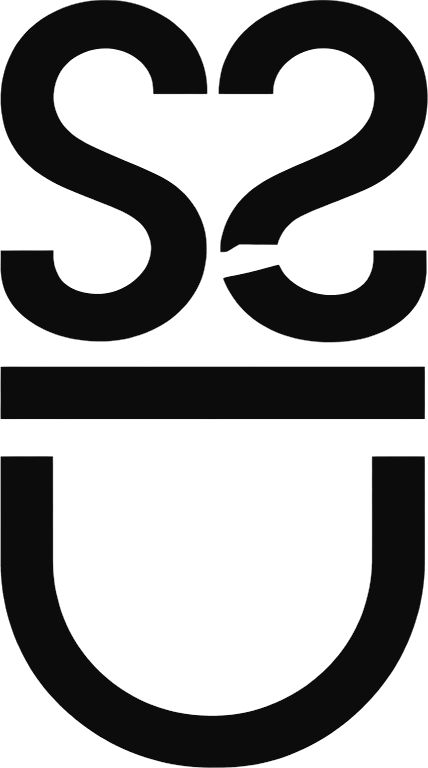
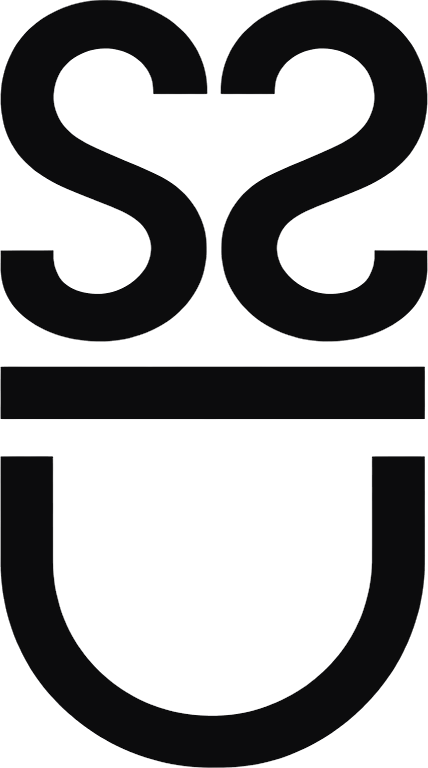
Home: goods turn continuously in 3D, tee symbol on left chest, day-to-night product backdrop; fix broken S in goods symbol

diff --git a/index.html b/index.html
@@ -555,10 +555,23 @@
   .prd-grid{display:grid; grid-template-columns:repeat(2,minmax(0,340px)); gap:20px; margin-top:44px;}
   @media (max-width:600px){.prd-grid{grid-template-columns:minmax(0,340px); justify-content:center;}}
   .prd{margin:0;}
-  .prd-stage{position:relative; aspect-ratio:376/600; border-radius:14px; overflow:hidden; background:#d6d3ce;}
-  .prd-v{position:absolute; inset:0; opacity:0; transition:opacity 0.8s ease;}
-  .prd-v.on{opacity:1;}
-  .prd-v > img:first-child{display:block; width:100%; height:100%; object-fit:cover;}
+  .prd-stage{position:relative; aspect-ratio:376/600; border-radius:14px; overflow:hidden; background:#d8d6d2; perspective:900px;}
+  .prd-v{position:absolute; inset:0; opacity:0; transition:opacity 1.2s ease-in-out;}
+  .prd-t{position:absolute; inset:-8% -12%; transform:scale(1.02) rotateY(16deg);}
+  .prd-v.turn .prd-t{animation:prdTurn 3.6s linear forwards;}
+  @keyframes prdTurn{from{transform:scale(1.02) rotateY(16deg);} to{transform:scale(1.02) rotateY(-16deg);}}
+  @media (prefers-reduced-motion:reduce){.prd-v.turn .prd-t{animation:none;}}
+  .prd-v.on{opacity:1; z-index:2;}
+  .prd-v.prev{opacity:1; z-index:1; transition:none;}
+  /* 낮 → 노을 → 밤 → 새벽, 천천히 */
+  .prd-stage::after{content:''; position:absolute; inset:0; z-index:3; pointer-events:none; mix-blend-mode:multiply;
+    animation:prdDay 32s ease-in-out infinite;}
+  @keyframes prdDay{0%,100%{background:rgba(255,255,255,0);} 25%{background:rgba(255,178,120,0.38);}
+    50%{background:rgba(34,46,92,0.78);} 75%{background:rgba(214,170,190,0.34);}}
+  @media (prefers-reduced-motion:reduce){.prd-stage::after{animation:none;}}
+  .prd-i{position:absolute; left:9.68%; right:9.68%; top:6.9%; bottom:6.9%;}
+  .prd-i > img:first-child{display:block; width:100%; height:100%; object-fit:cover;}
+  .prd-t{background:#d8d6d2;}
   .prd-sym{position:absolute; mix-blend-mode:screen; opacity:0.88; filter:blur(0.25px);
     transform:translateX(-50%) scaleX(var(--sx,1)); transform-origin:50% 0;}
   .prd figcaption{display:flex; justify-content:space-between; gap:12px; margin-top:14px; font-size:12px; letter-spacing:0.12em;}
@@ -1445,19 +1458,19 @@
       <div class="prd-grid">
         <figure class="prd">
           <div class="prd-stage">
-            <div class="prd-v on"><img src="goods/assets/prd-tee-0.jpg" alt="S2:U 심볼 반팔 티셔츠 블랙 앞면" loading="lazy"><img class="prd-sym" src="goods/assets/symbol-bone.png" alt="" style="left:50%; top:25.8%; width:7.4%; --sx:1;"></div>
-            <div class="prd-v"><img src="goods/assets/prd-tee-1.jpg" alt="S2:U 심볼 반팔 티셔츠 블랙 오른쪽 측면" loading="lazy"><img class="prd-sym" src="goods/assets/symbol-bone.png" alt="" style="left:53.7%; top:25.8%; width:7.4%; --sx:0.72;"></div>
-            <div class="prd-v"><img src="goods/assets/prd-tee-2.jpg" alt="S2:U 심볼 반팔 티셔츠 블랙 뒷면" loading="lazy"><img class="prd-sym" src="goods/assets/symbol-bone.png" alt="" style="left:50%; top:26.7%; width:24.5%; --sx:1;"></div>
-            <div class="prd-v"><img src="goods/assets/prd-tee-3.jpg" alt="S2:U 심볼 반팔 티셔츠 블랙 왼쪽 측면" loading="lazy"><img class="prd-sym" src="goods/assets/symbol-bone.png" alt="" style="left:50.3%; top:25.8%; width:7.4%; --sx:0.8;"></div>
+            <div class="prd-v on"><div class="prd-t"><div class="prd-i"><img src="goods/assets/prd-tee-0.jpg" alt="S2:U 심볼 반팔 티셔츠 블랙 앞면" loading="lazy"><img class="prd-sym" src="goods/assets/symbol-bone.png" alt="" style="left:66%; top:29%; width:6.5%; --sx:1;"></div></div></div>
+            <div class="prd-v"><div class="prd-t"><div class="prd-i"><img src="goods/assets/prd-tee-1.jpg" alt="S2:U 심볼 반팔 티셔츠 블랙 오른쪽 측면" loading="lazy"><img class="prd-sym" src="goods/assets/symbol-bone.png" alt="" style="left:67%; top:29%; width:6.5%; --sx:0.7;"></div></div></div>
+            <div class="prd-v"><div class="prd-t"><div class="prd-i"><img src="goods/assets/prd-tee-2.jpg" alt="S2:U 반팔 티셔츠 블랙 뒷면" loading="lazy"></div></div></div>
+            <div class="prd-v"><div class="prd-t"><div class="prd-i"><img src="goods/assets/prd-tee-3.jpg" alt="S2:U 심볼 반팔 티셔츠 블랙 왼쪽 측면" loading="lazy"><img class="prd-sym" src="goods/assets/symbol-bone.png" alt="" style="left:62%; top:29%; width:6.5%; --sx:0.9;"></div></div></div>
           </div>
           <figcaption><span>S2:U SYMBOL TEE</span><span>BLACK · COMING SOON</span></figcaption>
         </figure>
         <figure class="prd">
           <div class="prd-stage">
-            <div class="prd-v on"><img src="goods/assets/prd-jk-0.jpg" alt="S2:U 트랙 자켓 블랙 앞면" loading="lazy"><img class="prd-sym" src="goods/assets/symbol-bone.png" alt="" style="left:69.7%; top:22.6%; width:5.3%; --sx:1;"></div>
-            <div class="prd-v"><img src="goods/assets/prd-jk-1.jpg" alt="S2:U 트랙 자켓 블랙 오른쪽 측면" loading="lazy"><img class="prd-sym" src="goods/assets/symbol-bone.png" alt="" style="left:71%; top:22.4%; width:5.3%; --sx:0.65;"></div>
-            <div class="prd-v"><img src="goods/assets/prd-jk-2.jpg" alt="S2:U 트랙 자켓 블랙 뒷면" loading="lazy"><img class="prd-sym" src="goods/assets/symbol-bone.png" alt="" style="left:50%; top:23%; width:4.3%; --sx:1;"></div>
-            <div class="prd-v"><img src="goods/assets/prd-jk-3.jpg" alt="S2:U 트랙 자켓 블랙 왼쪽 측면" loading="lazy"><img class="prd-sym" src="goods/assets/symbol-bone.png" alt="" style="left:55.6%; top:22.8%; width:5.3%; --sx:0.9;"></div>
+            <div class="prd-v on"><div class="prd-t"><div class="prd-i"><img src="goods/assets/prd-jk-0.jpg" alt="S2:U 트랙 자켓 블랙 앞면" loading="lazy"><img class="prd-sym" src="goods/assets/symbol-bone.png" alt="" style="left:69.7%; top:22.6%; width:5.3%; --sx:1;"></div></div></div>
+            <div class="prd-v"><div class="prd-t"><div class="prd-i"><img src="goods/assets/prd-jk-1.jpg" alt="S2:U 트랙 자켓 블랙 오른쪽 측면" loading="lazy"><img class="prd-sym" src="goods/assets/symbol-bone.png" alt="" style="left:71%; top:22.4%; width:5.3%; --sx:0.65;"></div></div></div>
+            <div class="prd-v"><div class="prd-t"><div class="prd-i"><img src="goods/assets/prd-jk-2.jpg" alt="S2:U 트랙 자켓 블랙 뒷면" loading="lazy"><img class="prd-sym" src="goods/assets/symbol-bone.png" alt="" style="left:50%; top:23%; width:4.3%; --sx:1;"></div></div></div>
+            <div class="prd-v"><div class="prd-t"><div class="prd-i"><img src="goods/assets/prd-jk-3.jpg" alt="S2:U 트랙 자켓 블랙 왼쪽 측면" loading="lazy"><img class="prd-sym" src="goods/assets/symbol-bone.png" alt="" style="left:55.6%; top:22.8%; width:5.3%; --sx:0.9;"></div></div></div>
           </div>
           <figcaption><span>S2:U TRACK JACKET</span><span>BLACK · SAMPLE</span></figcaption>
         </figure>
@@ -2239,16 +2252,20 @@ ${pts}
       v.muted = true;
     });
   })();
-  /* ---- 프로덕트: 각도별 사진을 차례로 바꿔 360도 회전처럼 ---- */
+  /* ---- 프로덕트: 각도별 사진이 천천히 돌며 다음 각도로 넘어가 360도 회전처럼 ---- */
   (function(){
-    document.querySelectorAll('.prd-stage').forEach(function(st, k){
+    const STEP = 2400;
+    document.querySelectorAll('.prd-stage').forEach(function(st){
       const v = [...st.querySelectorAll('.prd-v')]; let n = 0;
-      setTimeout(function(){
-        setInterval(function(){
-          if(!st.offsetParent) return;
-          v[n].classList.remove('on'); n = (n + 1) % v.length; v[n].classList.add('on');
-        }, 1500);
-      }, k * 400);
+      v[0].classList.add('turn');
+      setInterval(function(){
+        if(!st.offsetParent) return;
+        const old = v[n]; old.classList.add('prev'); old.classList.remove('on');
+        setTimeout(function(){ if(!old.classList.contains('on')) old.classList.remove('turn', 'prev'); }, 1300);
+        n = (n + 1) % v.length;
+        v[n].classList.remove('turn'); void v[n].offsetWidth;
+        v[n].classList.add('turn', 'on');
+      }, STEP);
     });
   })();
   /* ---- 플레이리스트 (표 형식, 행 안에서 재생) ---- */
